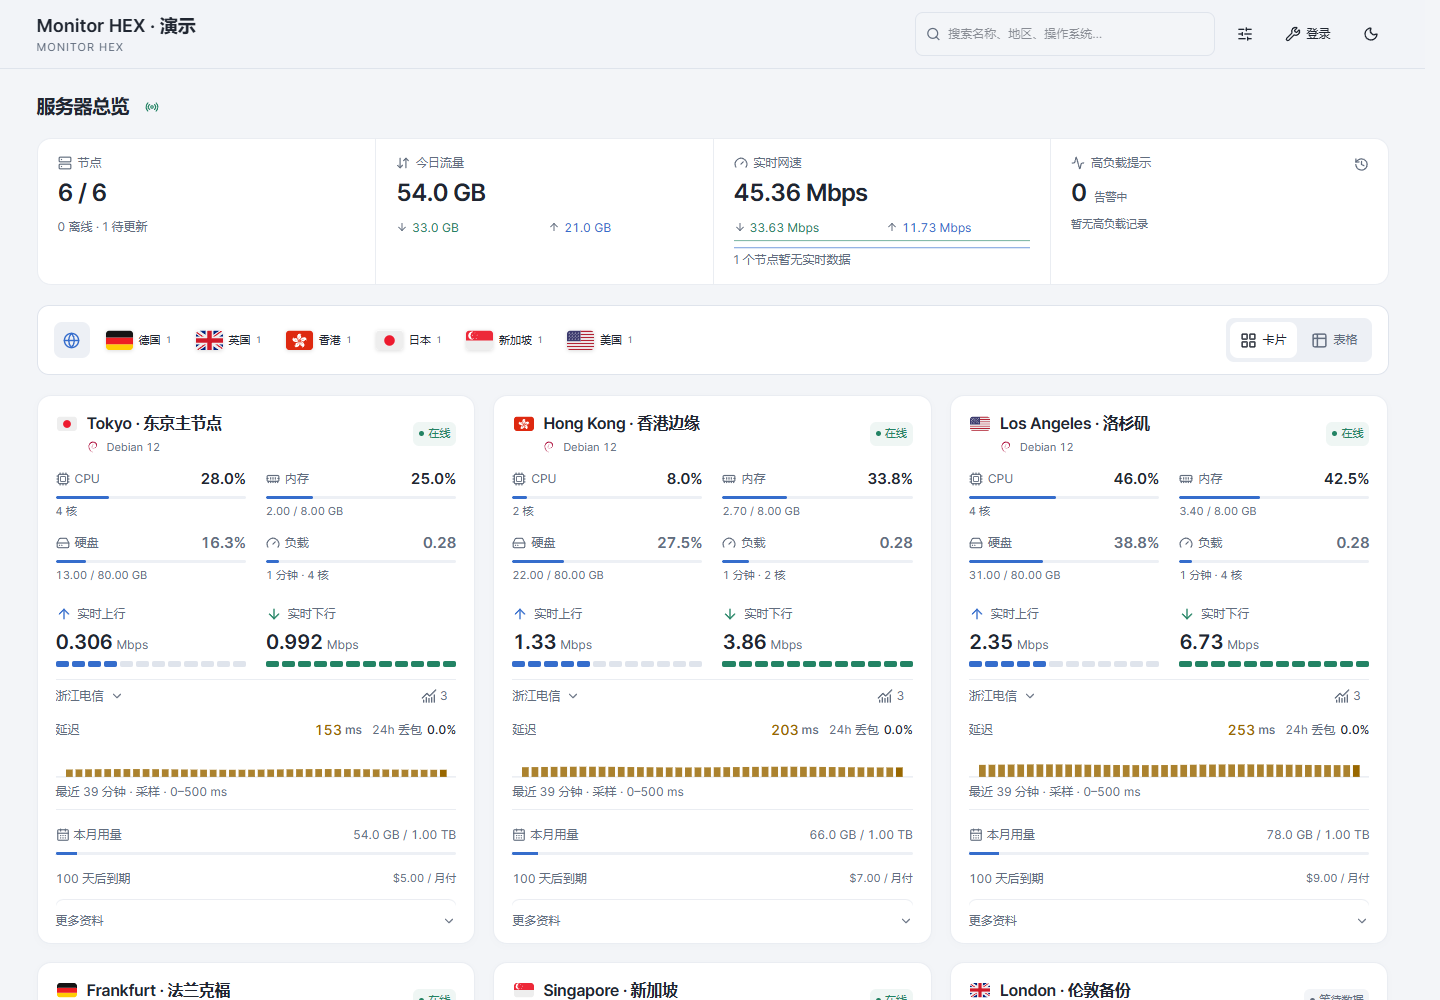
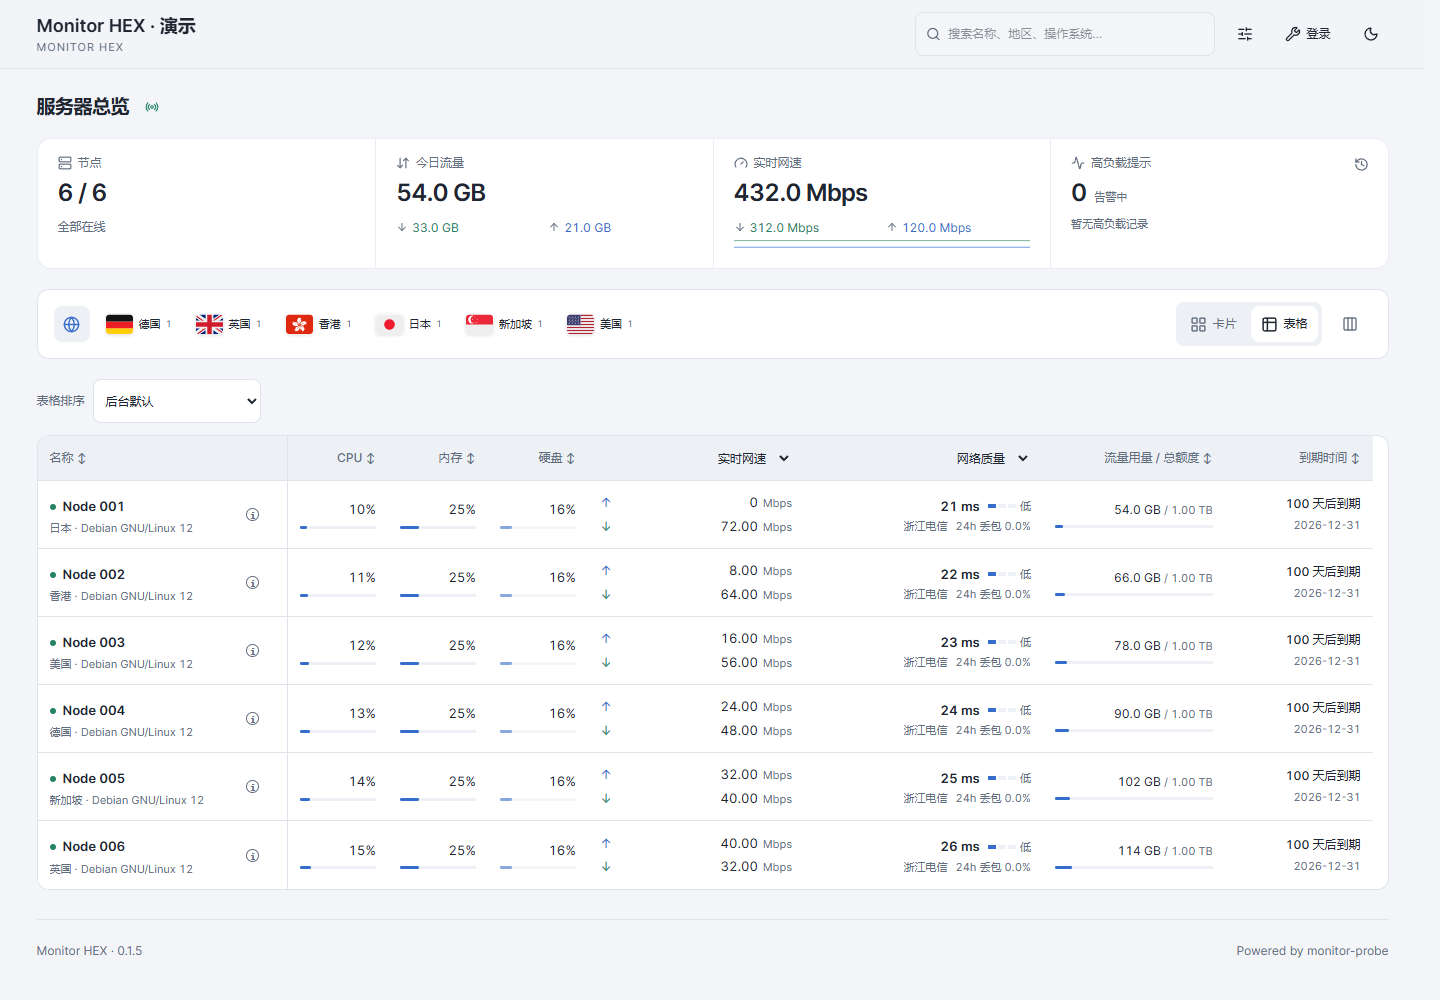
release: prepare Monitor HEX v0.1.5

diff --git a/ACCEPTANCE.md b/ACCEPTANCE.md
@@ -1,8 +1,24 @@
-# Monitor HEX 0.1.4 检查说明
+# Monitor HEX 0.1.5 检查说明
 
 当前源码的检查入口如下。测试使用本地演示数据，不代表已完成真实服务器部署验证。
 
 ## 最近验证
+
+2026-09-22：v0.1.5 静态检查、业务单元测试、502 处字面量翻译检查与生产构建通过。Chrome 全量 178/178（4 workers）；Edge 表格、配置及新鲜度核心检查 15/15。
+
+首次 8 workers 全量运行有两项既有详情测试失败：提示框位置读取时元素消失、页面导航超时。未修改相关实现，详情文件连续两轮 24/24 通过，之后 4 workers 全量 178/178 通过。此处保留初次失败记录，不以重试隐藏结果。
+
+表格截图覆盖 320/390/720/721/900/1440px、中英文和明暗主题。200% 使用 CSS 缩放检查布局及键盘操作，不等同于实体手机或所有浏览器原生缩放验证。桌面长表固定表头和名称列，普通行目标 68px，长内容及异常状态允许增高。
+
+最终同设备三次中位数（v0.1.4 → v0.1.5），以浏览器内首次延迟读数出现后的动画帧记录首屏时间，排除测试驱动等待延迟：20 节点 181→208ms，100 节点 238→278ms，500 节点 423→479ms；主线程任务分别 203→208、291→293、540→554ms。保留测试驱动耗时用于追溯，不混用两种口径。
+
+已知开销：100 节点首屏增加约 40ms（16.8%），略高于约 15% 的调查参考线，而主线程增加约 2ms。早期 500 节点额外开销通过行缓存、固定列布局和减少重复 DOM 得到降低；最终保留更清晰的双行读数和完整资料入口，不宣称无性能退化。测量包含浏览器布局、网络及帧调度，不把小样本波动解释成确定收益。
+
+普通桌面浏览的探测请求数从 12 降为 10，主要因行高及可见区域变化；主动质量排序分别完成 20/100/500 个节点的一次读取，沿用最多两个并发，不新增高频轮询。原始数据在 tests/artifacts/v015-comparison/readiness.json 与 quality-loading.json；后者还保留此前测试驱动计时，不能与新的浏览器内计时直接比较。
+
+本轮仅完成主题的本地生产构建与演示数据验收，线上安装需单独记录。
+
+## v0.1.4 历史验证
 
 2026-09-22：v0.1.4 静态检查、业务测试、481 处字面量翻译检查与生产构建通过。Chrome 全量 169/169；Edge 核心交互、地图全屏和响应式检查 17/17。最终图例间距调整后，Chrome 定向回归 16/16。修改后截图已检查。以上为本地生产构建与演示数据验收，不代表已替换生产站点主题。
 
@@ -28,13 +44,15 @@ npm run test:e2e
 
 ## 本轮新增验证
 
-- `v014.spec.ts`：全部线路入口、刷新及显式选择；旧偏好迁移与推荐显示；未应用阈值草稿保留；首页密度预算；手机搜索焦点、返回与单层设备资料；手机和桌面表格独立列；320/390/720/900/1440px 明暗截图。
-- `appearance.test.ts`：v2 导入完整密度、v3 导出回读、恢复外观不改变资料密度及非法值回落。
-- 既有测试按实际可见分类操作设置，取消对已移除二级折叠的依赖；保留原数据、键盘、布局及持久化断言。
+- `table-upgrade.spec.ts`：八列桌面布局、上传/下载/丢包独立排序、旧列迁移、隐藏方向不复活、手机预设、完整名称、固定表头与返回位置、共享阈值、未知丢包、可见行懒加载、主动排序完整读取、低速/离线历史以及 200% CSS 缩放键盘操作。
+- 320/390/720/721/900/1440px × 中英文 × 明暗主题表格截图；桌面默认八列无横向滚动，手机仅表格内部滚动。
+- `browse.test.ts`：版本 1/2/3/4 列迁移、设备独立预设、空选择、非法字段、丢包/延迟排序、超时、旧记录及离线排末尾。
+- 既有 `table.spec.ts` 保留流量计费、显隐持久化和跨天到期测试；v014 的新访客桌面列数更新为八列，手机独立性断言保留。
+- `scripts/verify-v015.mjs`：本地旧/新构建同数据对比。默认全流程；CAPTURE_ONLY 仅截图，PERFORMANCE_ONLY 仅测量，SKIP_SORT 跳过完整排序读取，TABLE_COUNTS 可指定节点规模。首屏指标三次取中位数，完整质量排序请求检查每规模每版本一次。
 
 ## 浏览器检查范围
 
-169 项用例按功能组织：
+178 项用例按功能组织：
 
 - `v023-polish.spec.ts`：桌面／手机首页搜索、返回顶部、手机卡片辅助信息折叠、详情资料分组、CPU/IP 对齐、费用状态和移动端历史范围工具栏。
 

diff --git a/README.md b/README.md
@@ -1,8 +1,8 @@
 # Monitor HEX
 
-HEX 是为 monitor-probe 制作的监控主题。当前版本 **0.1.4**，主题短名 **hex**。
+HEX 是为 monitor-probe 制作的监控主题。当前版本 **0.1.5**，主题短名 **hex**。
 
-本版本优化首页信息密度和手机阅读：新增概览资料与推荐显示预设、常驻线路图例、全部线路直达、分类设置及搜索面板。实时网速仍为 Mbps，延迟仍使用真实采样柱条。验收入口见 `ACCEPTANCE.md`。
+本版本优化首页表格：新增八列分组、独立网络排序、手机预设、固定表头与返回恢复。实时网速仍为 Mbps，延迟仍使用真实采样柱条。验收入口见 `ACCEPTANCE.md`。
 
 ## 安装
 
@@ -20,6 +20,19 @@ HEX 是为 monitor-probe 制作的监控主题。当前版本 **0.1.4**，主题
 - 总览为节点、今日流量、实时网速、高负载提示四栏，手机为两列。
 - 首页默认一条线路，可在主题设置中调整为最多三条；详情页查看全部线路。
 - 支持深浅色、资源与网速指标、备注标签及延迟历史图表。
+
+## 首页表格
+
+新访客桌面默认分组为节点、CPU、内存、硬盘、实时网速、网络质量、本月流量、到期八列。旧用户的列选择继续使用独立列；点击表格旁的“显示列”可切换分组显示，或选择概览、网络、费用预设。手机设置独立，默认保留节点、状态、CPU、内存、网络质量。
+
+- 上下行合并展示但可分别隐藏和排序，单位仍为 Agent 实际上报的 Mbps。
+- 延迟显示低/中/高等级，沿用卡片的黄/红阈值；短分段条表示当前等级，不是历史采样或带宽比例。24h 丢包使用后端聚合值，未知不写成 0%。
+- 桌面长表固定表头与名称列；手机横向滚动时固定名称，边缘提示剩余内容。名称旁的资料按钮支持点按查看完整信息。
+- 表头和“表格排序”支持升降序，上传、下载、延迟和丢包各自排序；可恢复后台默认顺序。缺失或旧数据放末尾。主动按延迟/丢包排序会以现有有界并发读取各节点探测，普通浏览仍按可见内容加载。
+- 流量条仅用于正额度；无限额度显示 ∞，超额保留真实用量。到期剩余天数优先，日期次之。
+- 从表格进入详情再返回，会恢复筛选、排序、列选择和表格内部滚动位置。
+
+列配置使用原有 sessionStorage 保存，刷新有效，不承诺跨浏览器或新会话同步。列版本为 4，外观偏好版本仍为 3。升级迁移会在当前会话尝试备份旧表格配置，备份失败不影响读取已有设置。
 
 ## 网络指标
 
@@ -68,7 +81,7 @@ HEX 是为 monitor-probe 制作的监控主题。当前版本 **0.1.4**，主题
 
 ## 开发与验收
 
-`npm install`、`npm run build`、`npm run lint`、`npm test`。`npm run demo` 启动演示数据页面；`npm run package` 生成 theme.tar.gz。浏览器测试按功能组织，运行 `npm run test:e2e` 检查当前版本的 169 项交互用例（需已安装 Chrome）；设置 `TEST_BROWSER=msedge` 可改用 Edge。测试前先执行 `npm run build`。
+`npm install`、`npm run build`、`npm run lint`、`npm test`。`npm run demo` 启动演示数据页面；`npm run package` 生成 theme.tar.gz。浏览器测试按功能组织，运行 `npm run test:e2e` 检查当前版本的 178 项交互用例（需已安装 Chrome）；设置 `TEST_BROWSER=msedge` 可改用 Edge。测试前先执行 `npm run build`。
 
 截图由当前生产构建配合本地演示数据生成，不代表已部署至用户线上站点。许可和参考来源见 NOTICE.md、LICENSE、LICENSE.komari-next。
 

diff --git a/CHANGELOG.md b/CHANGELOG.md
@@ -1,5 +1,14 @@
 # Monitor HEX 当前版本
 
+## 0.1.5
+
+- 新增桌面八列分组表格，合并节点状态和双向实时网速，保留旧用户独立列及逐方向隐藏设置。
+- 网络质量展示共享阈值的延迟等级与后端 24h 丢包；上下行继续使用真实 Mbps，未知、离线、超时及旧记录分别呈现。
+- 支持上传、下载、延迟、丢包独立排序和恢复默认顺序；主动质量排序复用有界并发读取，普通浏览保持可见节点懒加载。
+- 增加手机概览、网络、费用预设及完整节点资料查看；桌面固定表头和名称列，详情返回恢复表格内部位置。
+- 标准行高 68px，统一数值对齐、流量额度条与到期信息层级；表格样式集中管理，减少重复行渲染。
+- 列配置升为 v4，外观配置仍为 v3；迁移保留旧列选择并尝试保存会话内回退快照。
+
 ## 0.1.4
 
 - 新增概览资料密度：费用、到期与流量常驻，连接数、运行时长及备注按需展开；旧版偏好保留完整资料，可手动应用推荐显示。
